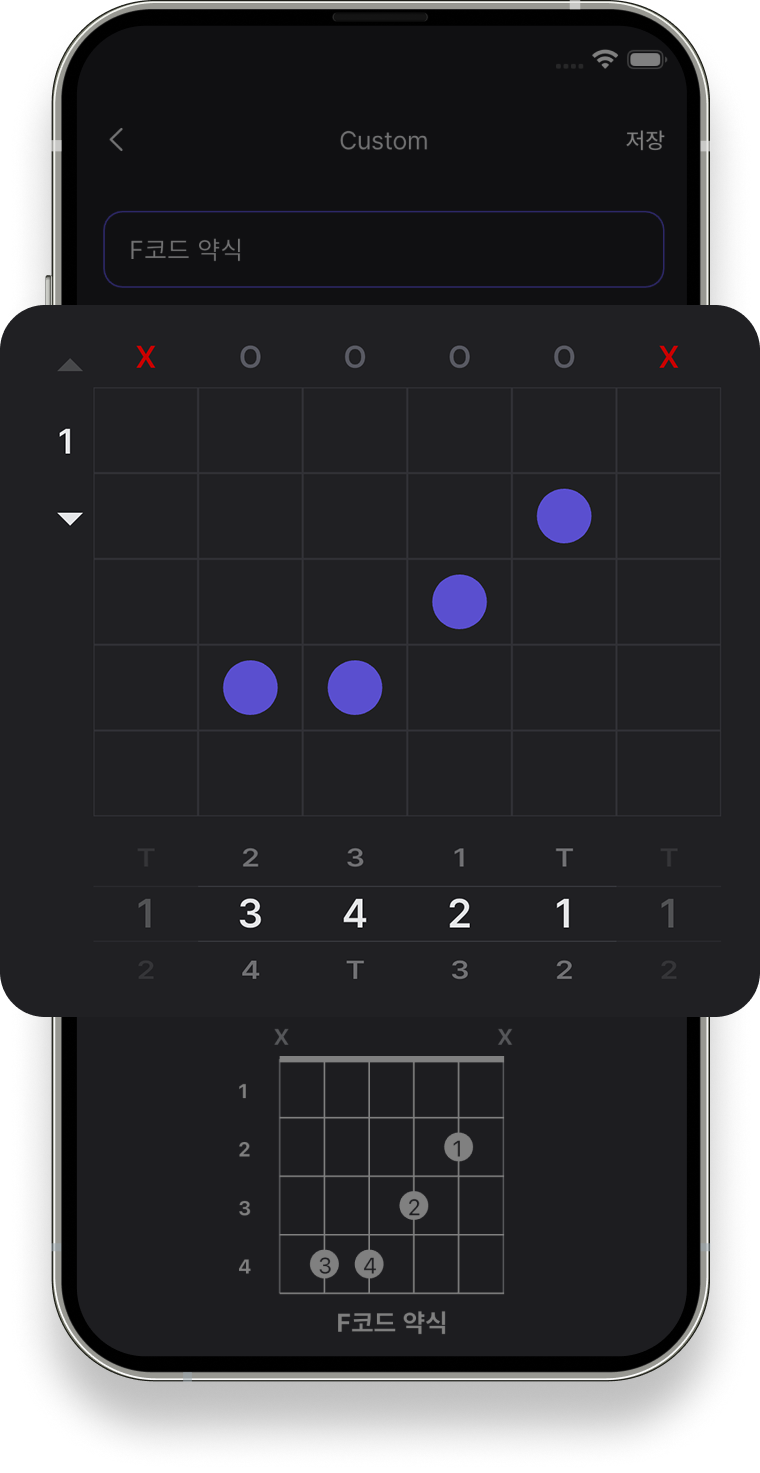
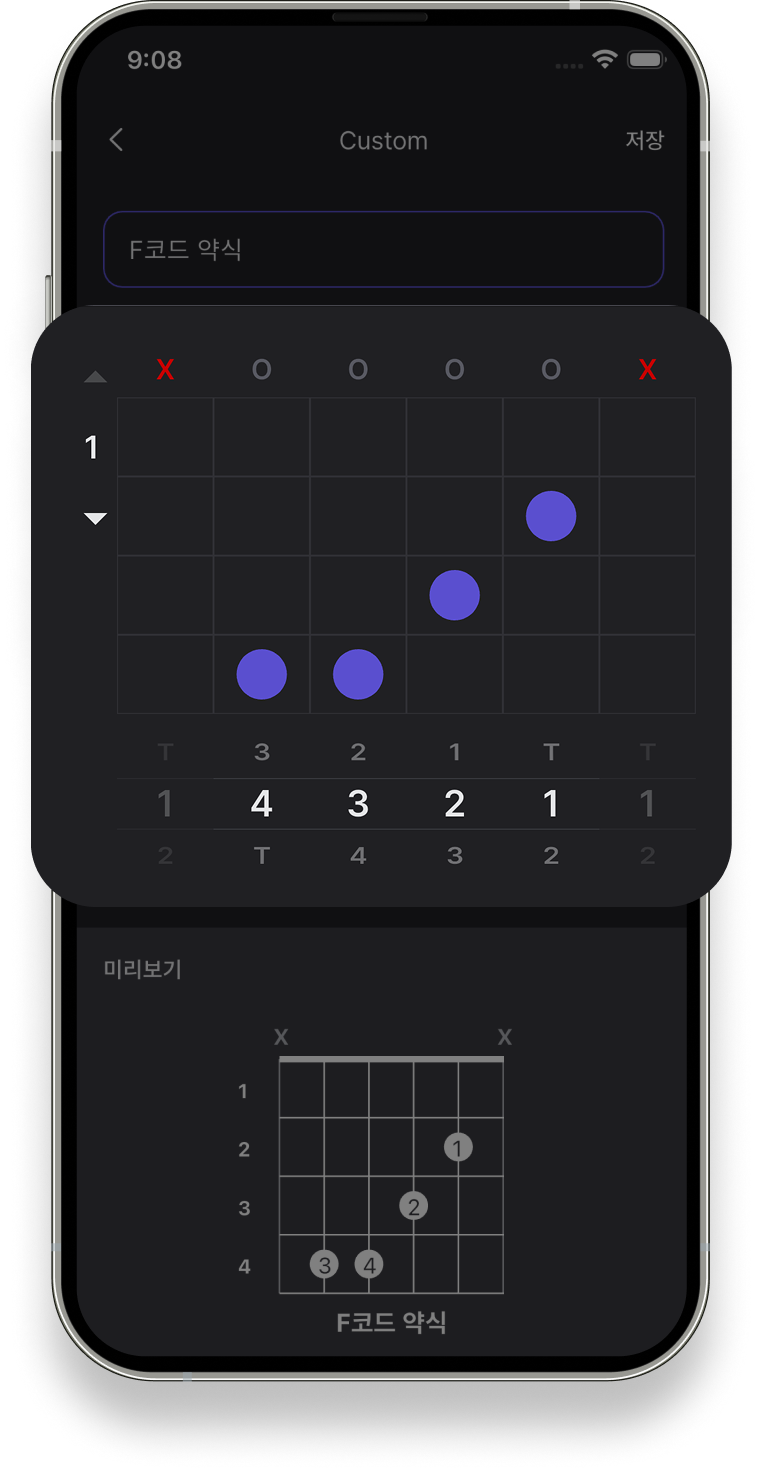
chore : 커스텀 코드 프렛보드 줄 4개로 변경 (#28)
- 프렛보드와 미리보기 줄 수 맞춤
- 변경한 화면을 적용한 온보딩 이미지 변경

diff --git a/lib/features/box/presentation/screens/custom_chord_editor_screen.dart b/lib/features/box/presentation/screens/custom_chord_editor_screen.dart
@@ -69,8 +69,8 @@ class CustomChordEditorScreen extends HookConsumerWidget {
             : Column(
                 children: [
                   const SizedBox(height: 16),
-                  Expanded(child: const _FretboardControls().ph20),
-                  const _ChordPreview(),
+                  Expanded(flex: 11, child: const _FretboardControls().ph20),
+                  const Expanded(flex: 9, child: _ChordPreview()),
                 ],
               ),
       ),
@@ -112,7 +112,7 @@ class _FretboardControls extends ConsumerWidget {
                 ),
                 style: context.textTheme.regular16,
               ),
-              const SizedBox(height: 24),
+              const SizedBox(height: 28),
               FretboardWidget(
                 frets: state.frets,
                 baseFret: state.baseFret,
@@ -144,17 +144,16 @@ class _ChordPreview extends ConsumerWidget {
 
     return ColoredBox(
       color: context.colorScheme.onPrimary,
-      child: Center(
-        child: Column(
-          crossAxisAlignment: CrossAxisAlignment.start,
-          children: [
-            const SizedBox(height: 16),
-            Text('미리보기', style: context.textTheme.semiBold14).ph20,
-            const SizedBox(height: 16),
-            Center(
-              child: SizedBox(
-                width: 210,
-                height: 210,
+      child: Column(
+        crossAxisAlignment: CrossAxisAlignment.start,
+        children: [
+          const SizedBox(height: 20),
+          Text('미리보기', style: context.textTheme.semiBold14).ph20,
+          const SizedBox(height: 20),
+          Expanded(
+            child: Center(
+              child: AspectRatio(
+                aspectRatio: 1,
                 child: Padding(
                   padding: const EdgeInsets.fromLTRB(10, 0, 0, 4),
                   child: FlutterGuitarChord(
@@ -175,9 +174,9 @@ class _ChordPreview extends ConsumerWidget {
                 ),
               ),
             ),
-            const SizedBox(height: 16),
-          ],
-        ),
+          ),
+          const SizedBox(height: 40),
+        ],
       ),
     );
   }

diff --git a/lib/features/box/presentation/widgets/fretboard_widget.dart b/lib/features/box/presentation/widgets/fretboard_widget.dart
@@ -1,7 +1,7 @@
 import 'package:chord_list_app/shared/exports.dart';
 
 const int _stringCount = 6;
-const int _fretCount = 5;
+const int _fretCount = 4;
 const _fingerOptions = ['T', '1', '2', '3', '4'];
 const _loopMultiplier = 500;
 const double _fretRowHeight = 44.0;
